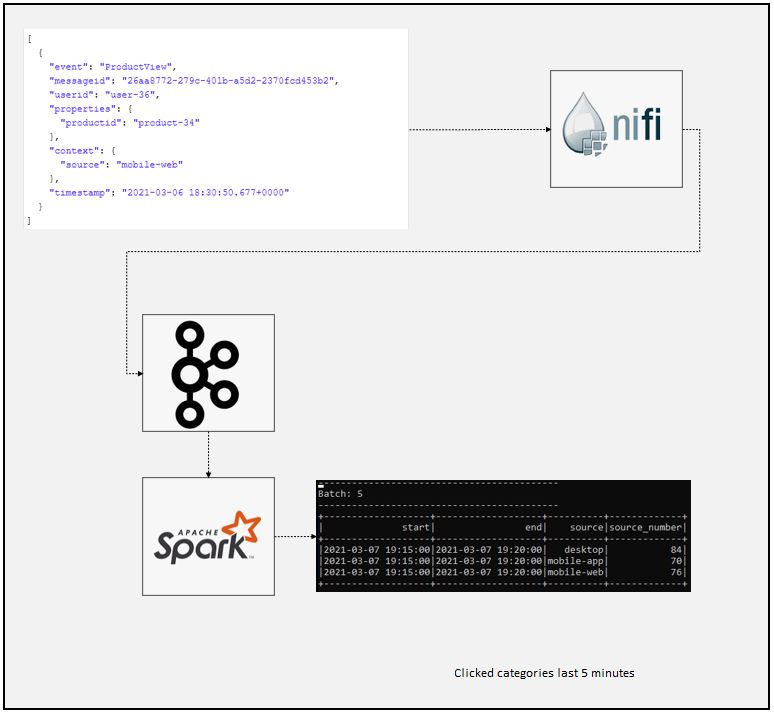
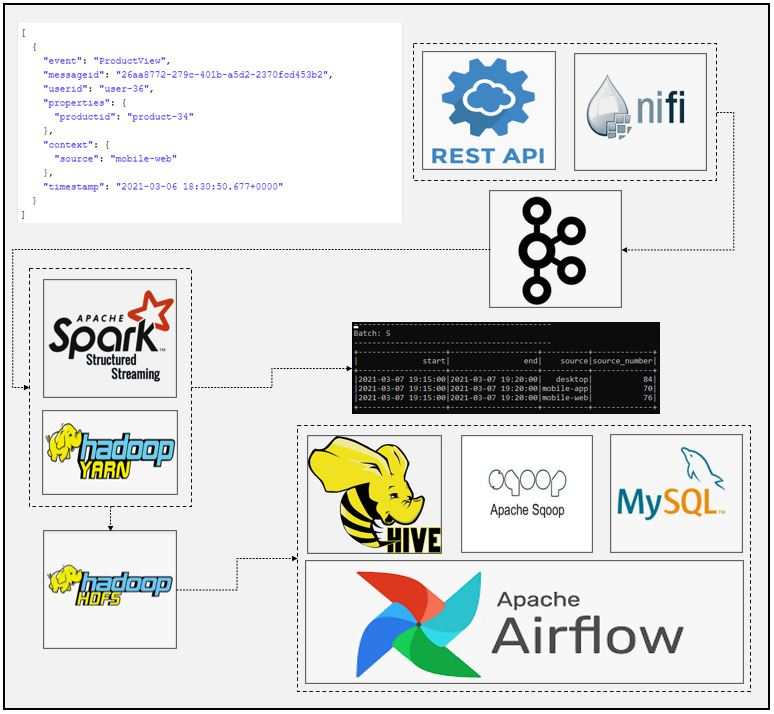
readme added

diff --git a/README.md b/README.md
@@ -1,0 +1,266 @@
+# SparkStream E-commerce Connected Platforms in Last 5 minutes
+### Dataflow Pipeline
+![](pipeline.JPG)
+
+### Summary
+
+In this application we used 100.000 click data and simulate those data as 1 click each second using apache kafka and apache nifi. Apache nifi used to transform raw data and make it ready for analysis. SparkStream api used to perform necessary transformations. Results aggregated each 5 minutes and printed to consele for visualization. Spark's 5 minutes window function used to aggregate data in 5 minutes interval. Same data consumed stored into HDFS and Apache Hive table. Apache Airflow used to schedule data export from Apache Hive to Mysql using Apache Sqoop.
+
+### Task List
+
+- [x] Check json data from data folder
+
+![](data.JPG)
+
+- [x] Create nifi pipeline
+
+![](nifi_pipeline.JPG)
+
+- [x] Create kafka topic
+- [x] Create spark session and define schema
+```
+if __name__ == "__main__":
+    spark = SparkSession \
+        .builder \
+        .appName("Tumbling Window Stream Users Platform") \
+        .master("local[3]") \
+        .config("spark.streaming.stopGracefullyOnShutdown", "true") \
+        .config("spark.sql.warehouse.dir", warehouse_location) \
+        .config("spark.sql.shuffle.partitions", 2) \
+        .enableHiveSupport() \
+        .getOrCreate()
+
+#Describe schema (productid will be enough to find viewed category in the last 5 minute)
+    schema = StructType([
+    StructField("context", StructType([
+        StructField("source", StringType())
+    ])),
+    StructField("timestamp", StringType())
+])
+```
+- [x] Read data from kafka topic
+```
+#Read data from kafka topic
+    kafka_df = spark.readStream \
+        .format("kafka") \
+        .option("kafka.bootstrap.servers", "localhost:9092") \
+        .option("subscribe", "platform") \
+        .option("startingOffsets", "earliest") \
+        .option("failOnDataLoss", "false") \
+        .load()
+```
+- [x] Deserialization and transformations of data
+```
+#Data in kafka topic have key-value format, from_json is used to deserialize json value from string
+    value_df = kafka_df.select(from_json(col("value").cast("string"), schema).alias("value"))
+#Checking schema if everything is correct
+    value_df.printSchema()
+#Explode dataframe to remove sub-structures
+    explode_df = value_df.selectExpr("value.context.source", "value.timestamp")
+#Checking schema if everything is correct
+    explode_df.printSchema()
+#Set timeParserPolicy=Legacy to parse timestamp in given format
+    spark.sql("set spark.sql.legacy.timeParserPolicy=LEGACY")
+#Convert string type to timestamp
+    transformed_df = explode_df.select("source", "timestamp") \
+        .withColumn("timestamp", to_timestamp(col("timestamp"), "yyyy-MM-dd HH:mm:ss")) \
+
+#Checcking schema if everything is correct
+    transformed_df.printSchema()
+```
+- [x] Create 5 minutes window
+```
+#Create 5 min window
+#Create watermark to autoclean history
+#Groupby product_id and count considering distinct users
+#Rename new column as count
+    window_count_df = transformed_df \
+        .withWatermark("timestamp", "5 minute") \
+        .groupBy(col("source"),
+            window(col("timestamp"),"5 minute")).count()
+
+    output_df = window_count_df.select("window.start", "window.end", "source", "count") \
+        .withColumn("source_number", col("count")) \
+        .drop("count")
+```
+
+- [x] Createforeach batch function to perform aggregations and write data to console
+```
+#Define foreach batch function to aggrate stream data several times and print console
+def foreach_batch_func(df, epoch_id):
+    df = df.sort(desc("source_number"))
+    df \
+        .write.format("console") \
+        .save()
+    pass
+```
+- [x] Write data into console and hdfs
+```
+#Write spark stream to console or csv sink
+    window_query = output_df.writeStream \
+    .foreachBatch(lambda df, epoch_id: foreach_batch_func(df, epoch_id))\
+    .outputMode("update") \
+    .trigger(processingTime="5 minutes") \
+    .start()
+
+# Write raw data into HDFS
+    output2_df.writeStream \
+      .trigger(processingTime='5 minute') \
+      .format("parquet") \
+      .option("path", "hdfs://localhost:9000/tmp/data/ecommerce") \
+      .option("checkpointLocation", "chk-point-dir") \
+      .start()
+```
+- [x] Check the results to find connected platforms in last 5 minutes
+
+![](result1.JPG)
+![](result2.JPG)
+
+- [x] Create mysql table
+
+- [x] Create airflow dag file (dag_file.py)
+
+- [x] Define default default_args
+```
+default_args = {
+    "owner": "airflow",
+    "email_on_failure": False,
+    "email_on_retry": False,
+    "email": "admin@localhost.com",
+    "retry": 1,
+    "retry_delay": timedelta(minutes=5)
+}
+```
+- [x] Define function to download json data into application data directory
+```
+#Function to download file and create json file
+def download_rates():
+    BASE_URL = "https://raw.githubusercontent.com/euguroglu/Spark_Nifi_Kafka_Connected_Device_Stream/master/data/product-views.json"
+
+    indata = requests.get(f"{BASE_URL}")
+
+    open('/home/enes/Applications/BD_Project_1/data/product-views.json', 'wb').write(indata.content)
+
+```
+- [x] Initialize dag
+```
+with DAG("ecommerce_platform",start_date=datetime(2021, 1, 1),
+         schedule_interval="@daily", default_args=default_args, catchup=False) as dag:
+```
+
+- [x] Define http sensor task
+```
+#HTTP sensor example
+is_connection_available = HttpSensor(
+   task_id = "is_connection_available",
+   http_conn_id = "data_api",
+   endpoint = "euguroglu/Spark_Nifi_Kafka_Connected_Device_Stream/master/data/product-views.json",
+   response_check = lambda response: "event" in response.text,
+   poke_interval = 5,
+   timeout = 20
+)
+```
+- [x] Define python operator task to download data
+```
+#Python operator example
+downloading_rates = PythonOperator(
+   task_id = "downloading_rates",
+   python_callable = download_rates
+)
+```
+- [x] CDefine spark operator task to initialize spark job
+```
+#Spark operator
+commerce_processing = SparkSubmitOperator(
+   task_id = "commerce_processing",
+   application = "/home/enes/Applications/BD_Project_1/nifi_spark_kafka_product_view_platform_v2.py",
+   conn_id = "spark_conn",
+   verbose = False,
+   packages = "org.apache.spark:spark-sql-kafka-0-10_2.12:3.0.1"
+)
+```
+- [x] Define python operator to delay between tasks
+```
+#Python operator example delay
+delay_python_task = PythonOperator(
+   task_id = "delay_python_task",
+   python_callable = lambda: time.sleep(60)
+)
+```
+- [x] Define hive operator task to create hive table from parquet file
+```
+#Hive operator
+creating_commerce_table = HiveOperator(
+   task_id="creating_commerce_table",
+   hive_cli_conn_id="hive_conn",
+   hql="""
+       CREATE EXTERNAL TABLE IF NOT EXISTS commerce(
+           source STRING,
+           source_number BIGINT
+           )
+       ROW FORMAT DELIMITED
+       FIELDS TERMINATED BY ','
+       STORED AS PARQUET
+       LOCATION '/tmp/data/ecommerce';
+   """
+)
+```
+- [x] Define sqoop operator task to transfer data from hive to mysql
+```
+#Sqoop Operator
+hive_to_mysql = SqoopOperator(
+   task_id = "hive_to_mysql",
+   conn_id = "sqoop_conn",
+   cmd_type = "export",
+   table = "commerce",
+   hcatalog_table = "commerce"
+)
+```
+- [x] Create e-mail operator to send notification when task is done
+```
+#Email operator
+send_email_notification = EmailOperator(
+   task_id = "send_email_notification",
+   to = "airflow_course@yopmail.com",
+   subject = "commerce_data_pipeline",
+   html_content = "<h3>commerce_data_pipeline</h3>"
+)
+```
+- [x] Check results
+
+![](data_hdfs.JPG)
+
+![](hive.JPG)
+
+![](mysql.JPG)
+
+
+### Code Description
+
+Active_Users_Pipeline.xml is nifi pipeline to simulate dataflow and perform ETL operations as well as sending data to kafka topic.
+
+nifi_spark_kafka_product_view_platform_v2.py is spark streaming code for data processing, analysis and sink operations.
+
+dag_file.py file is airflow data pipeline to schedule data transfer between hive to mysql as well as initialize spark job.
+
+
+### Running
+
+1. Start zookeeper (Check kafka scripts)
+
+```
+zookeeper-server-start.bat config\zookeeper.properties (zookeeper-server-start.sh for linux)
+```
+
+2. Start kafka (Check kafka scripts)
+```
+kafka-server-start.bat config\server.properties  (kafka-server-start.sh for linux)
+```
+
+3. Start nifi and processors
+
+4. Open Airflow UI and initialize dag
+
+5. Start mysql server and hive server
+
+6. Check results and email inbox
